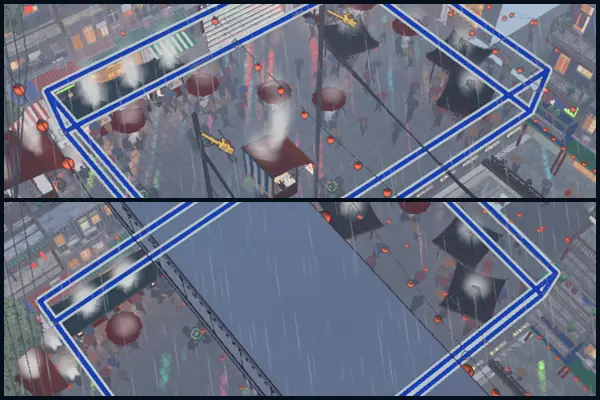
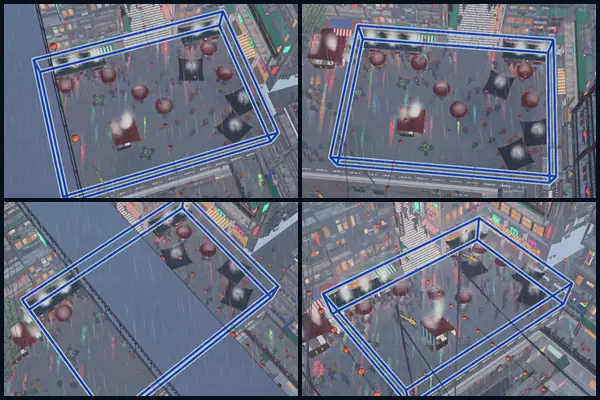
M7 (E315): Nine Dragon's Set Explorer card shows the night market from four clear sides; the hub before / after board
The market sits under walkways and among towers, so most sides of its aerial are roofs: its card is now four views
round the side that sees it (its first card had the only two clear ones). art/models-audit/round-9-m7-sets/
m7-hub-sets-card-before-after.jpg: the Explore hub on all four shards before (the World card's aerial) and after
d3a17955 (the sets' own aerials, 2 × 2) — Nine Dragon's there is the two-view first card this one replaces.

Claude-Session: https://claude.ai/code/session_019Fh7optxjTcuvtgbkUdFc2

diff --git a/src/boot/art.generated.ts b/src/boot/art.generated.ts
@@ -26,7 +26,7 @@ export const ART_BYTES: Readonly<Record<string, number>> = {
   "src/explore/img/practice.jpg": 133567,
   "src/explore/img/sets-driftwood-isle.webp": 38848,
   "src/explore/img/sets-nalati-grasslands.webp": 33828,
-  "src/explore/img/sets-nine-dragon-stack.webp": 33650,
+  "src/explore/img/sets-nine-dragon-stack.webp": 45596,
   "src/explore/img/sets-pine-hollow.webp": 52592,
   "src/explore/img/world-driftwood-isle.webp": 32714,
   "src/explore/img/world-nalati-grasslands.webp": 24016,
